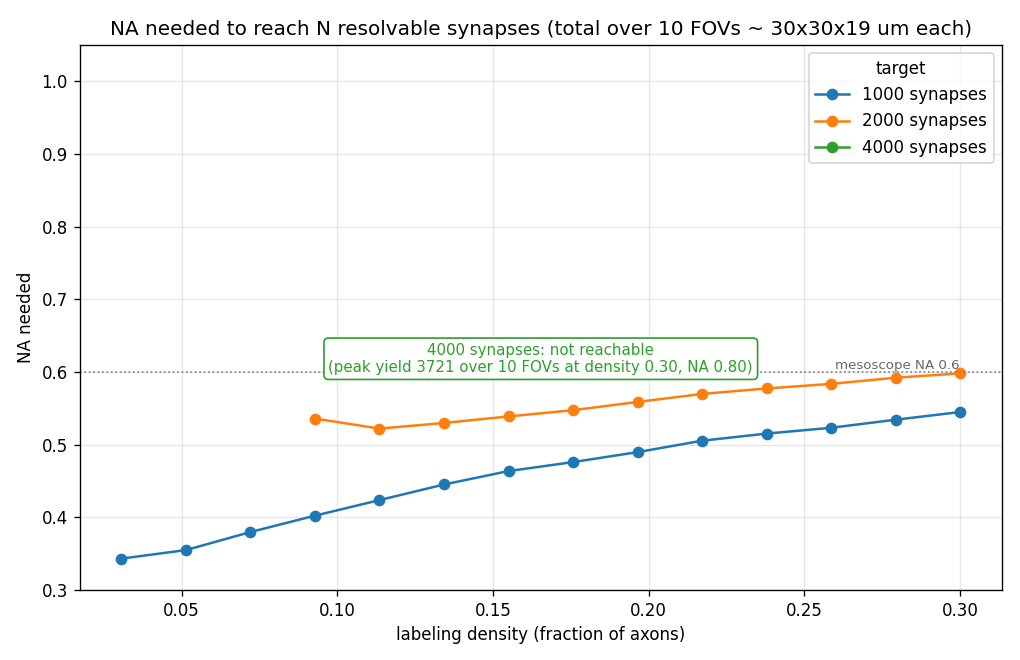
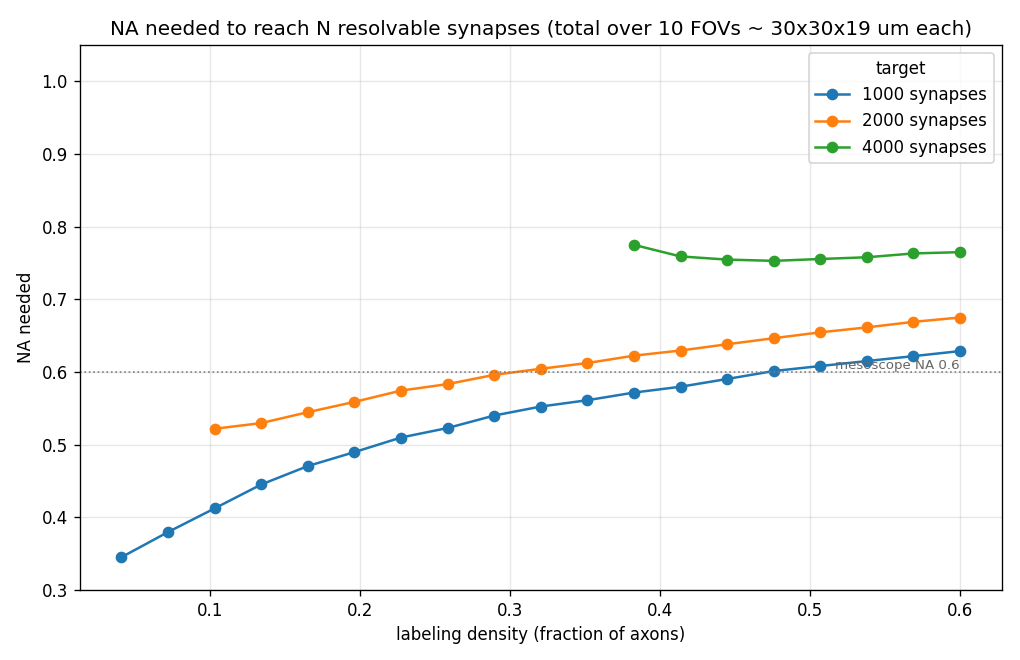
counts figure: extend density axis to 0.6 so the 4000-synapse curve appears
The 4000-resolvable ceiling was hit at the old density boundary (0.30); extending
to 0.60 (20 pts) makes it reachable (from density ~0.38 at NA ~0.75). Peak pooled
resolvable now 5196 at density 0.60, NA 0.90.

diff --git a/scripts/fig_na_for_counts.py b/scripts/fig_na_for_counts.py
@@ -18,7 +18,7 @@ import matplotlib.pyplot as plt
 
 from synsim import DEFAULTS, build_scene, evaluate
 
-DENSITIES = np.linspace(0.01, 0.30, 15)
+DENSITIES = np.linspace(0.01, 0.60, 20)
 NA_GRID = np.round(np.arange(0.30, 1.001, 0.05), 3)
 REGIONS = list(range(1, 11))
 TARGETS = [(1000, "tab:blue"), (2000, "tab:orange"), (4000, "tab:green")]
